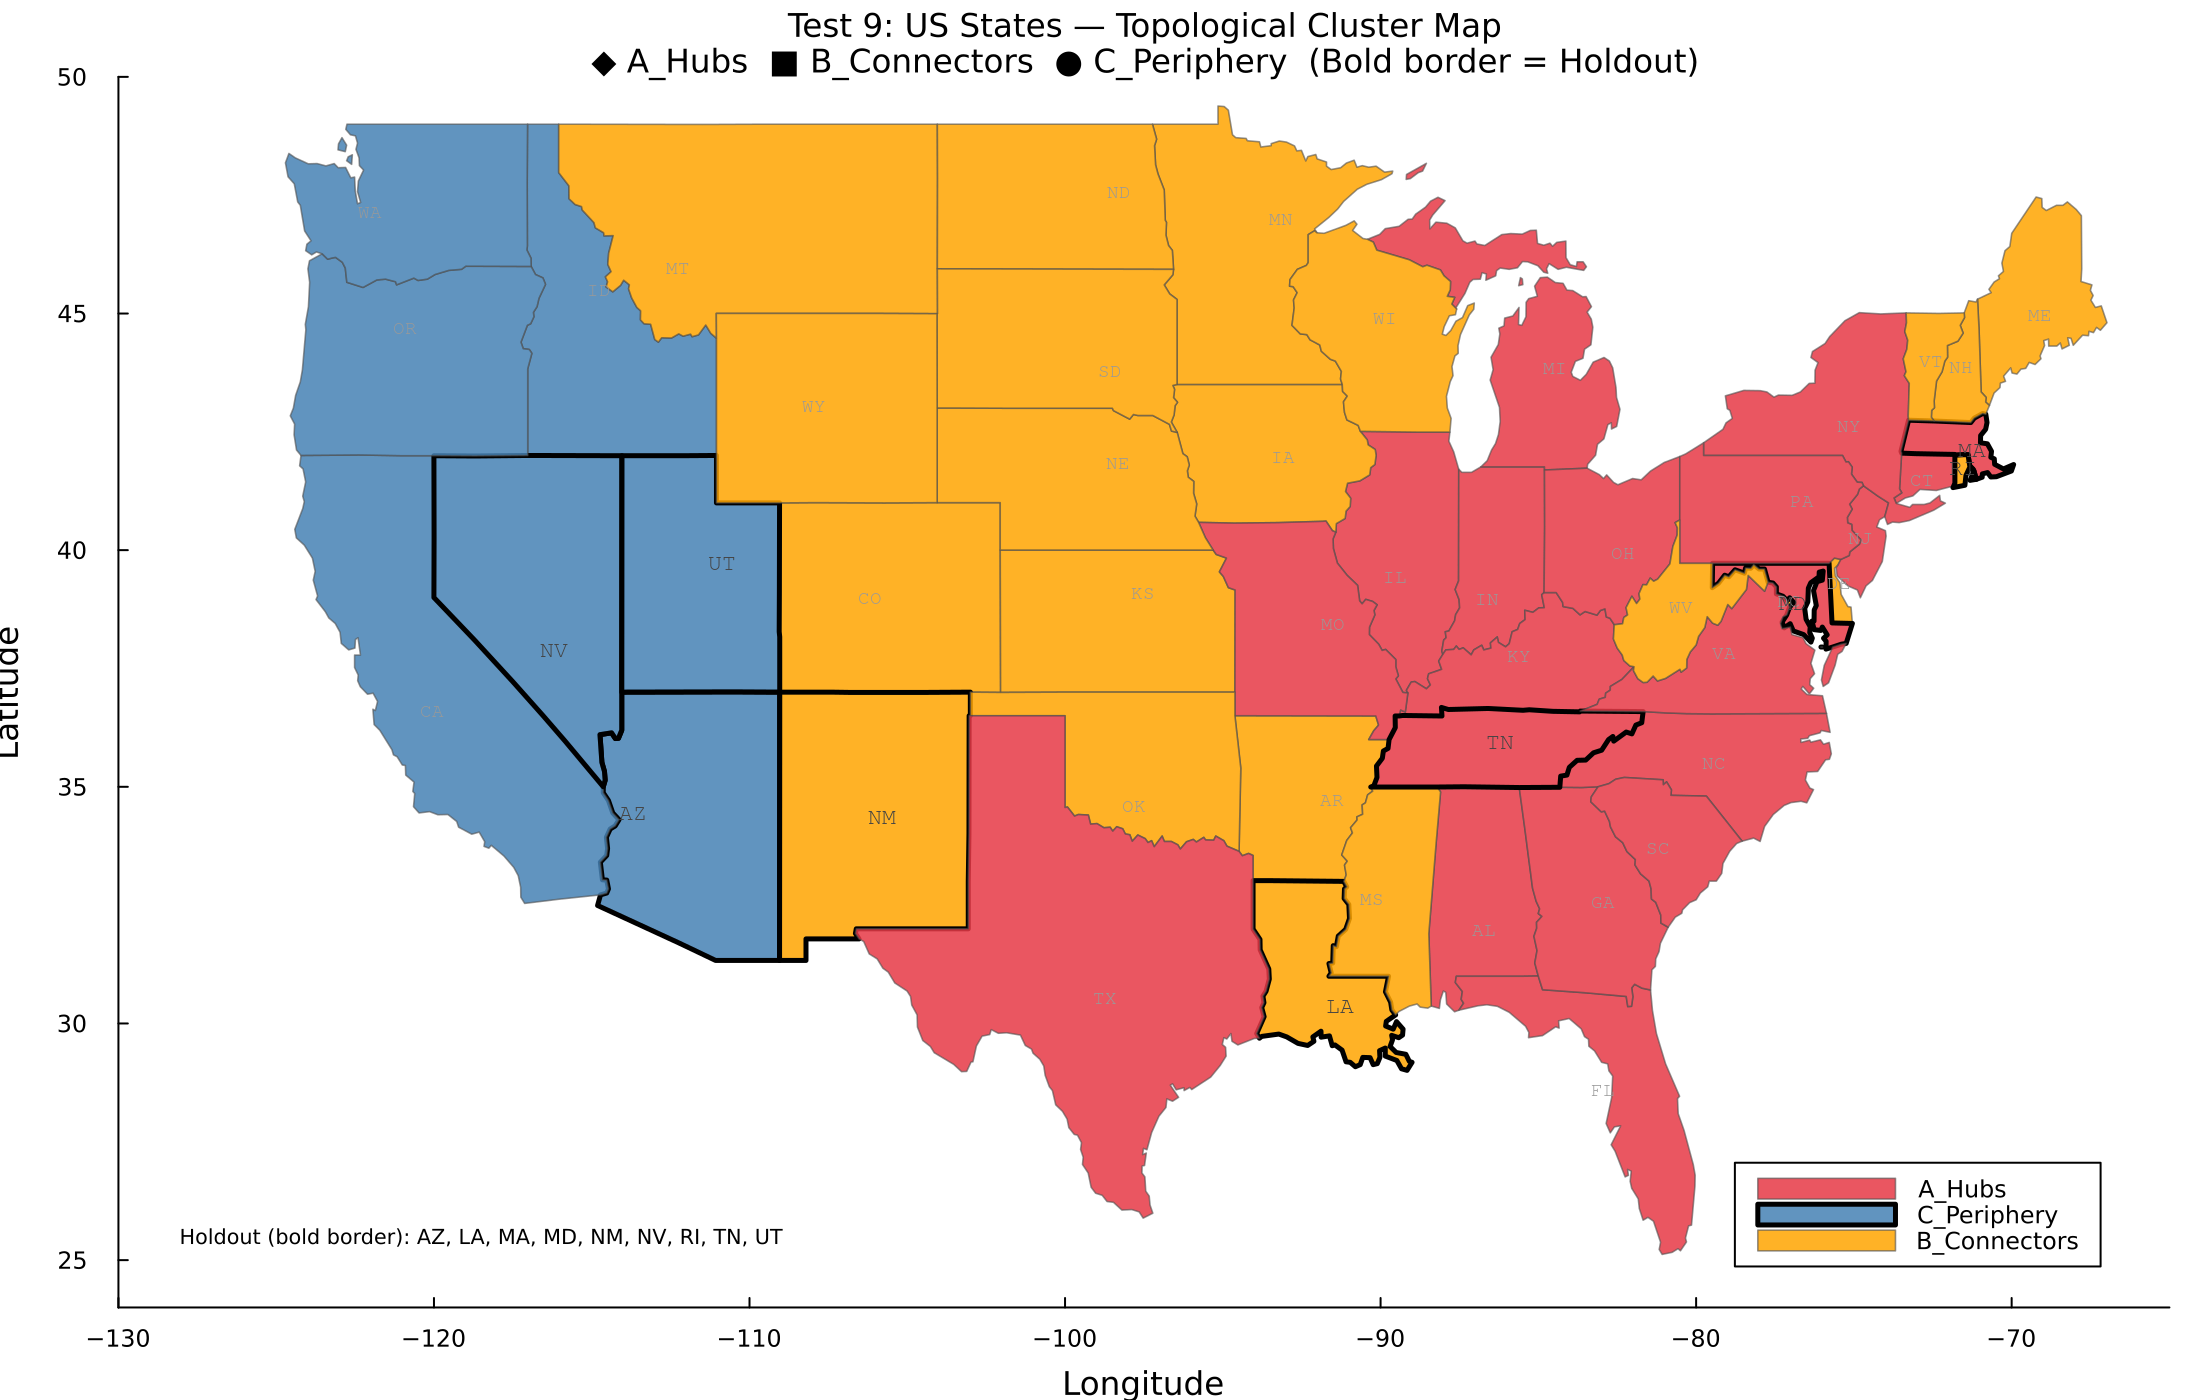
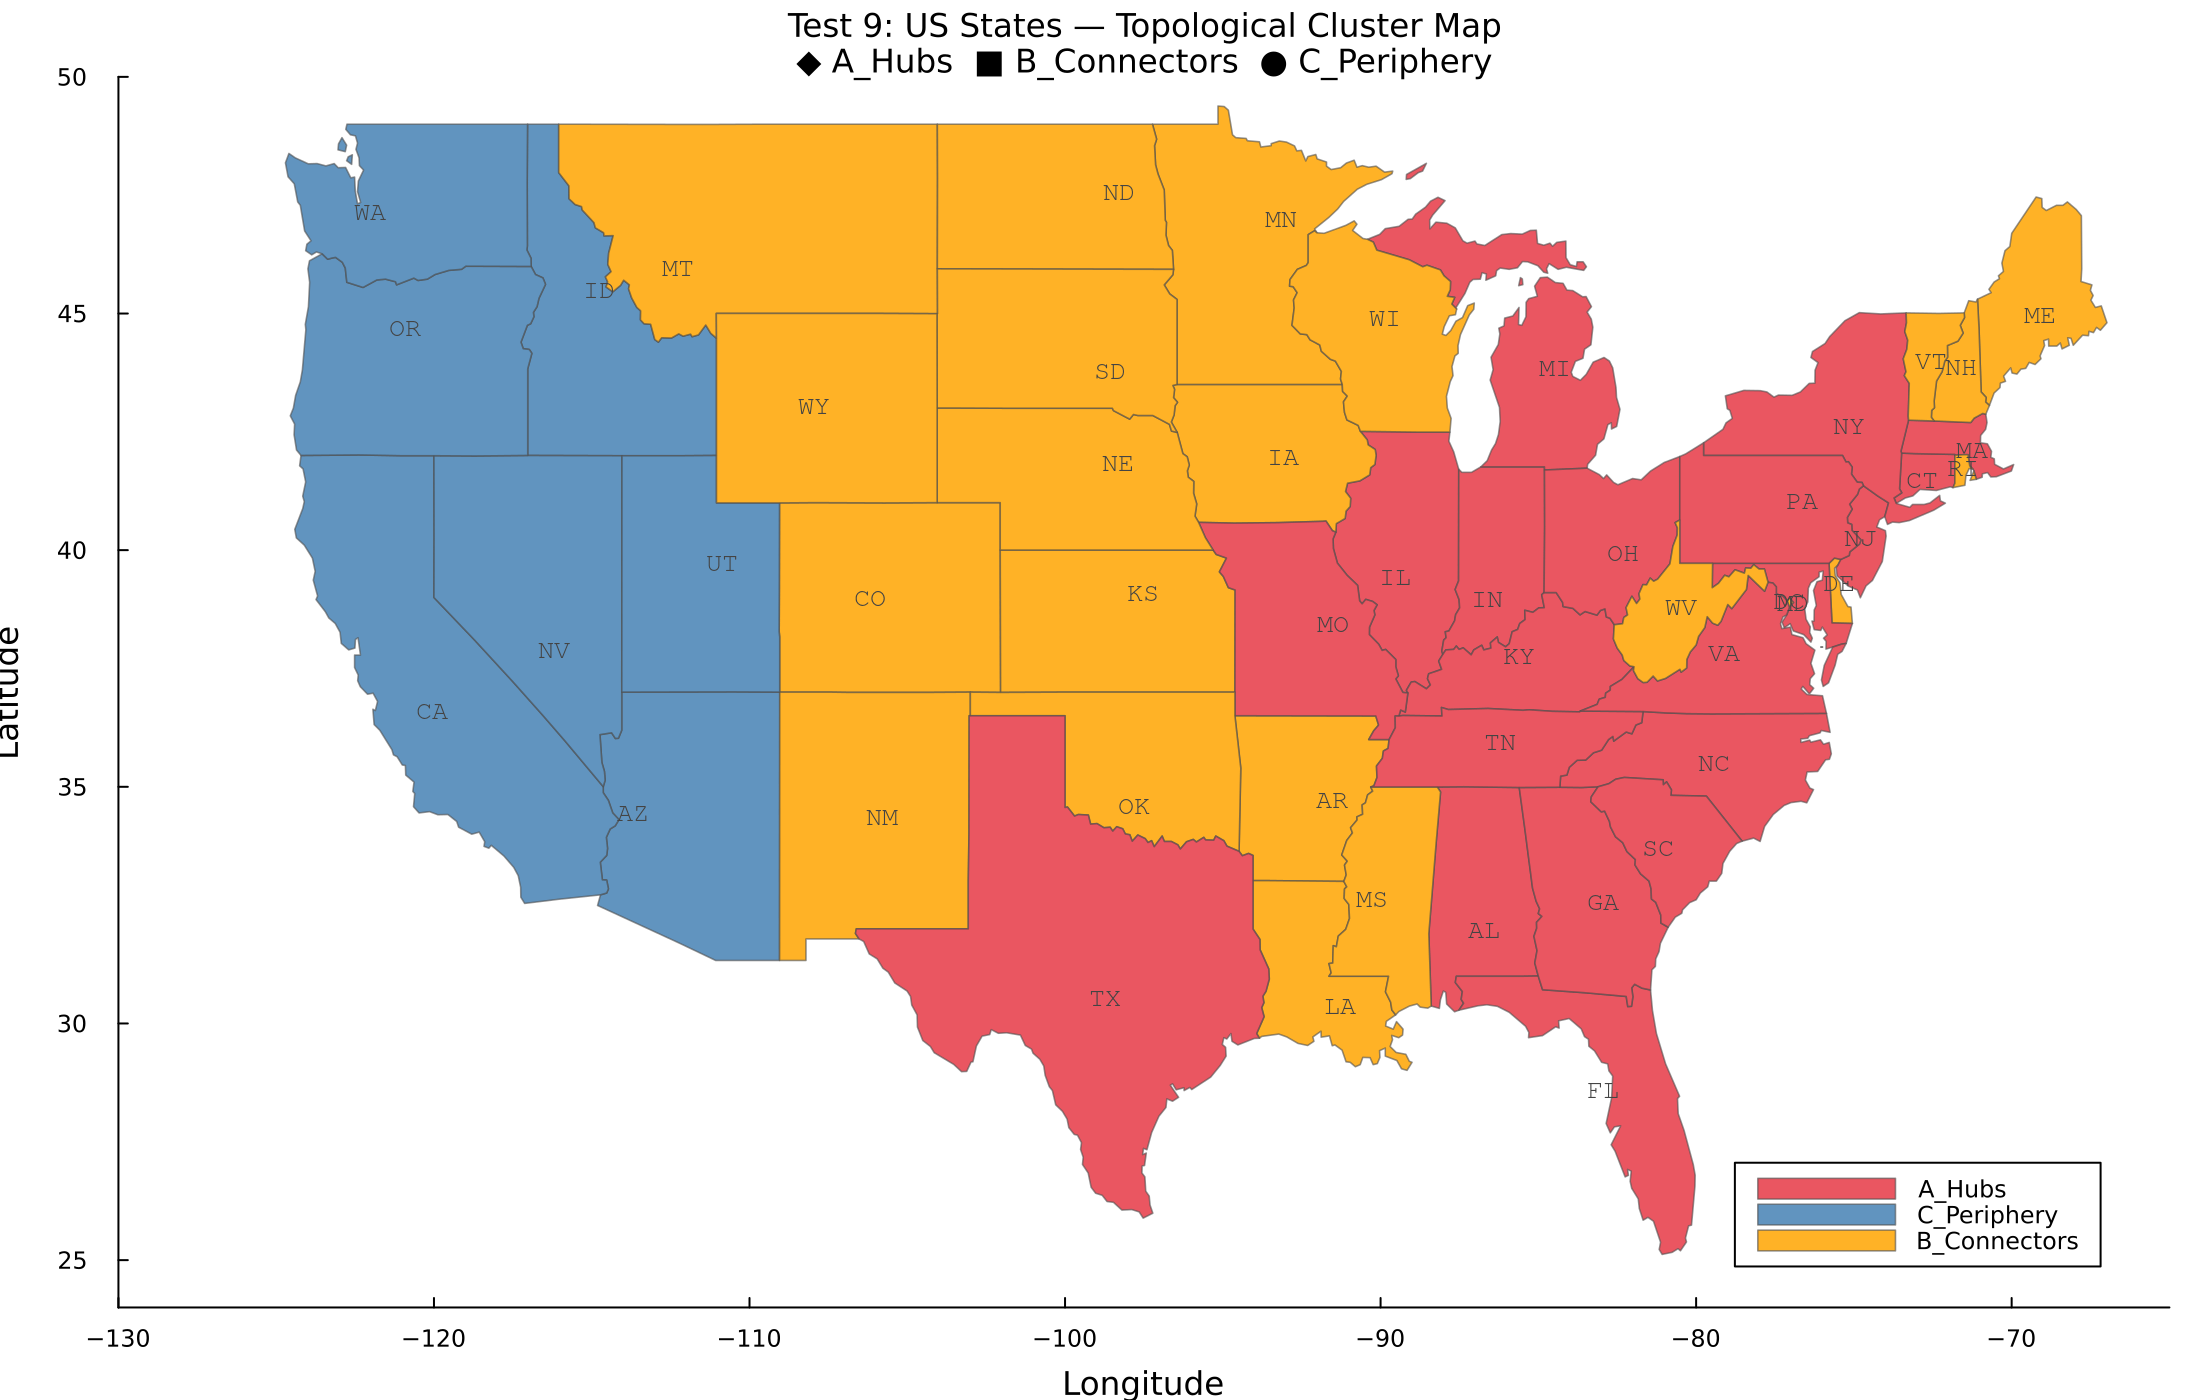
feat(test-9): enrich network science analysis
- Add parallel coordinates plot for cluster interpretation
- Deepen README.md analysis with academic metric definitions
- Update map script (remove holdout bold borders, add labels)
- Update docs (Experiments_Summary, README2) with Test 9 details
- Verify metric correctness via audit script

diff --git a/resultados/test-9/README.md b/resultados/test-9/README.md
@@ -12,15 +12,33 @@ Can we systematically select a subset of 9 US states for holdout validation that
 - **Key finding:** The graph is **fully connected** (1176 edges = 49×48/2) — every pair of states has nonzero weight
 
 ### Phase 2: Topological Feature Extraction (5D Vector per State)
-For each node, compute:
 
-| Metric | Rationale |
-|---|---|
-| **Weighted Degree** | Total gravity flow — identifies "Super-Spreaders" |
-| **Betweenness Centrality** | Flow control — identifies structural "Bridges" |
-| **Eigenvector Centrality** | Connection quality — linked to NY (high risk) vs linked to ND (low risk) |
-| **Clustering Coefficient** | Redundancy / "Safety Net" — can the model survive without this node? |
-| **Closeness Centrality** | How "nearby" a node is in weighted-path distance (replaced k-Core, which was constant=48 on the fully connected graph) |
+To characterize the structural role of each state in the US gravity network, we computed a 5-dimensional topological feature vector. These metrics were chosen to capture different aspects of centrality, connectivity, and redundancy.
+
+1.  **Weighted Degree (Strength)**
+    *   **Definition:** The sum of all edge weights connected to a node $i$: $s_i = \sum_{j} w_{ij}$.
+    *   **Interpretation:** In our gravity model, this represents the total volume of potential interaction (population flow) a state has with the rest of the country.
+    *   **Significance:** States with high weighted degree are **"Super-Spreaders"** or **"Hubs"**. They have the highest potential for importing and exporting infection due to massive aggregate connectivity.
+
+2.  **Weighted Betweenness Centrality**
+    *   **Definition:** The fraction of all shortest paths in the network that pass through node $i$. For weighted graphs, "shortest" means "minimum cost," where cost is the inverse of weight ($1/w_{ij}$).
+    *   **Interpretation:** Identifies states that act as **bridges** or **gatekeepers** between different regions of the graph.
+    *   **Significance:** A state with high betweenness but lower degree might connect distinct clusters (e.g., a state linking the Midwest to the West). Removing such nodes can disproportionately fragment the network.
+
+3.  **Eigenvector Centrality**
+    *   **Definition:** A measure where a node's centrality depends on the centrality of its neighbors. $x_i = \frac{1}{\lambda} \sum_{j} w_{ij} x_j$.
+    *   **Interpretation:** It is not just about *how many* connections you have, but *who* you are connected to.
+    *   **Significance:** A state connected to other highly active states (e.g., New Jersey connected to New York and Pennsylvania) will have high eigenvector centrality. This indicates deep integration into the "core" of the network's infection dynamics.
+
+4.  **Weighted Clustering Coefficient**
+    *   **Definition:** A measure of the degree to which nodes in a graph tend to cluster together. For a node $i$, it quantifies the intensity of triangles formed by its neighbors.
+    *   **Interpretation:** Indicates **local redundancy**. If state A is connected to B and C, are B and C also strongly connected?
+    *   **Significance:** High clustering implies a tightly knit community (e.g., New England states). If a node with high clustering is removed, its neighbors likely still have paths to each other. Low clustering implies a "star-like" or "bridge-like" local structure where the node is essential for local connectivity.
+
+5.  **Weighted Closeness Centrality**
+    *   **Definition:** The reciprocal of the sum of the shortest path distances from node $i$ to all other nodes.
+    *   **Interpretation:** How "close" a state is to everyone else in the network in terms of effective distance (inverse weight).
+    *   **Significance:** Represents **global accessibility**. A state with high closeness can spread infection to the entire network faster than a peripheral state, even if it doesn't have the highest immediate degree.
 
 ### Phase 3: Embedding & Clustering
 1. **StandardScaler** (Z-score) normalization
@@ -54,13 +72,42 @@ For each node, compute:
 | Clustering | 0.228 (CA) | 0.918 (ND) | Inversely correlated with degree |
 | Closeness | 148K (MT) | 652K (IL) | Geographic centrality |
 
-### Cluster Composition
+### Cluster Characterization & Parallel Coordinates
 
-| Cluster | N | Profile | Members |
-|---|---|---|---|
-| **A_Hubs** | 20 | High degree, high eigenvector, low clustering | FL, IL, MD, NC, CT, NJ, PA, GA, AL, OH, TX, SC, TN, KY, NY, MI, MO, IN, MA, VA |
-| **B_Connectors** | 22 | Moderate degree, high clustering | WV, MN, RI, NH, VT, DE, NM, WI, NE, LA, CO, OK, WY, ND, ME, AR, MS, MT, KS, SD, DC, IA |
-| **C_Periphery** | 7 | Low degree, low clustering, high betweenness (bridge role) | ID, CA, OR, WA, UT, NV, AZ |
+To understand the distinct topological roles of the identified clusters, we visualized their feature profiles using a Parallel Coordinates Plot (Min-Max scaled).
+
+![Parallel Coordinates Plot](parallel_coordinates.png)
+
+**How to Interpret This Plot:**
+Each line represents a single US state, colored by its cluster assignment. The vertical axes correspond to the five topological metrics, each normalized to the range [0, 1] (Min-Max scaling) to allow direct comparison of feature profiles. This visualization reveals the "signature" of each cluster:
+*   **Hubs (Red)** dominate the upper ranges of Degree, Betweenness, and Eigenvector centrality.
+*   **Connectors (Orange)** are distinguished almost exclusively by high Clustering Coefficients, indicating redundant local connectivity.
+*   **Periphery (Blue)** states exhibit structurally "quiet" profiles with low values on most dimensions.
+
+**Analysis of Cluster Profiles:**
+
+1.  **Cluster A (Hubs) — *The Core***
+    *   **Profile:** High **Degree**, High **Eigenvector**, High **Closeness**, Low-to-Mid **Clustering**.
+    *   **Role:** These are the dominant states in the US gravity network (e.g., NY, CA, TX, FL, IL). They form the "rich club" core.
+    *   **Dynamics:** They are the primary drivers of diffusion. Infection reaching a Hub has immediate access to the entire network (high Closeness) and reinforces other Hubs (high Eigenvector).
+
+2.  **Cluster B (Connectors) — *The Fabric***
+    *   **Profile:** Moderate **Degree**, High **Clustering**, Moderate **Closeness**.
+    *   **Role:** These states (e.g., MN, WI, CO, MO) often form tightly knit regional communities. The high clustering coefficient indicates that their neighbors are also connected to each other, providing **redundancy**.
+    *   **Dynamics:** They act as the stable "fabric" of the network. While not super-spreaders, they facilitate robust local circulation.
+
+3.  **Cluster C (Periphery) — *The Outliers***
+    *   **Profile:** Low **Degree**, Low **Clustering**, Low **Eigenvector**.
+    *   **Role:** geographically or topologically isolated states (e.g., MT, ID, ME).
+    *   **Dynamics:** They interact with the network primarily through specific "gateway" connections rather than broad integration. They are the last to be affected by global diffusion trends.
+
+### Cluster Membership Table
+
+| Cluster | N | Members |
+|---|---|---|
+| **A_Hubs** | 20 | FL, IL, MD, NC, CT, NJ, PA, GA, AL, OH, TX, SC, TN, KY, NY, MI, MO, IN, MA, VA |
+| **B_Connectors** | 22 | WV, MN, RI, NH, VT, DE, NM, WI, NE, LA, CO, OK, WY, ND, ME, AR, MS, MT, KS, SD, DC, IA |
+| **C_Periphery** | 7 | ID, CA, OR, WA, UT, NV, AZ |
 
 ### PCA Visualization
 

diff --git a/docs/Experiments_Summary.md b/docs/Experiments_Summary.md
@@ -164,17 +164,37 @@ This document summarizes the three main experimental phases conducted in this pr
 ## 🎯 Phase 9: Test 9 - Graph Characterization & Optimal Holdout
 **Goal:** Mathematically characterize the gravity graph and select a topologically representative holdout set to ensure robust validation.
 
-*   **Methodology: Multi-Metric Clustering**
-    *   **Features:** Weighted Degree, Betweenness, Eigenvector Centrality, Clustering, and Closeness Centrality.
-    *   **Embedding:** PCA (Linear) and UMAP (Nonlinear) parameter sweeps.
-    *   **Clustering:** KMeans (k=3) identifying Hubs, Connectors, and Periphery.
+*   **Methodology: Multi-Metric Topological Profiling**
+    For each of the 49 US states we computed a 5-dimensional topological feature vector on the gravity network:
+    1.  **Weighted Degree (Strength):** Total gravity flow $s_i = \sum_j w_{ij}$ — identifies "Super-Spreaders" with highest potential for infection import/export.
+    2.  **Weighted Betweenness Centrality:** Fraction of shortest paths (cost = $1/w_{ij}$) passing through a node — identifies structural "Bridges" connecting distant regions.
+    3.  **Eigenvector Centrality:** Recursive importance based on neighbor importance — captures integration into the network's "rich club" core.
+    4.  **Weighted Clustering Coefficient (Barrat et al.):** Triangle intensity among neighbors — quantifies local redundancy and community cohesion.
+    5.  **Weighted Closeness Centrality:** Reciprocal of total shortest-path distance — measures global accessibility for epidemic diffusion.
+    *   **Embedding:** PCA (Linear, 79.1% variance in 2D) and UMAP (Nonlinear) parameter sweeps.
+    *   **Clustering:** KMeans (k=3) identifying three structural roles:
+
+*   **Cluster Characterization:**
+
+    | Cluster | N | Profile | Role |
+    |---|---|---|---|
+    | **A_Hubs** | 20 | High degree, eigenvector, closeness; low clustering | The "Core" — primary diffusion drivers (NY, PA, IL, FL, TX) |
+    | **B_Connectors** | 22 | Moderate degree; high clustering | The "Fabric" — tightly knit regional communities providing redundancy |
+    | **C_Periphery** | 7 | Low degree, clustering, eigenvector | The "Outliers" — geographically isolated states (CA, OR, WA, ID, MT) |
+
 *   **Outcome: Strategic Holdout Selection.**
     *   **Representative Set:** Selected 9 states (`AZ, LA, MA, MD, NM, NV, RI, TN, UT`) by sampling 3 from each topological cluster.
-    *   **Constraints:** Satisfied geographic diversity (Census Regions) and structural integrity (Fiedler value check).
+    *   **Constraints:** Satisfied geographic diversity (Census Regions) and structural integrity (Fiedler value = 767,735).
     *   **Integrity:** Verified that removing holdout nodes does not fracture the training graph connectivity.
+
+*   **Code Audit (Verified):**
+    *   All 5 metric implementations numerically verified against independent recomputation.
+    *   Betweenness centrality confirmed to use weighted Dijkstra (via `SimpleWeightedGraphs` `weights()` dispatch).
+    *   Z-score normalization verified (column means ≈ 0, stds ≈ 1).
+
 *   **Key Visuals:**
-    *   🖼 **Topological MAP:** `Resultados/test-9/pca_clusters.png` (Linear structure).
+    *   🖼 **Topological PCA:** `Resultados/test-9/pca_clusters.png` (Linear structure).
     *   🌀 **Nonlinear Manifold:** `Resultados/test-9/umap_sweep.png` (Clustering stability).
     *   🗺 **Geographic Cluster Map:** `Resultados/test-9/cluster_map_us.png` (US states colored by cluster).
+    *   📊 **Parallel Coordinates:** `Resultados/test-9/parallel_coordinates.png` (Cluster signatures across all 5 metrics).
     *   📜 **Selection Logic:** `Resultados/test-9/holdout_selection.json`.
-

diff --git a/docs/README2.md b/docs/README2.md
@@ -148,15 +148,25 @@ This section details the large-scale experiment (25 Training States) designed to
 ## 8. Graph Characterization (Test 9)
 
 ### `Resultados/test-9/graph_characterization.jl`
-- **Purpose**: Topological profiling of the US states network.
-- **Metrics**: Implementations for Weighted Degree, Betweenness, Eigenvector, Clustering, and Closeness Centrality.
-- **Holdout Logic**: Implements a constrained stratified sampling algorithm with an auto-repair loop based on Fiedler values.
+- **Purpose**: Topological profiling of the US states gravity network.
+- **Metrics (5D Feature Vector per State)**:
+    1.  **Weighted Degree** — Total gravity flow ($s_i = \sum_j w_{ij}$). Identifies super-spreader states.
+    2.  **Weighted Betweenness** — Fraction of shortest paths (cost = $1/w_{ij}$) through a node. Uses `Graphs.jl` Dijkstra via `SimpleWeightedGraphs` `weights()` dispatch.
+    3.  **Eigenvector Centrality** — Power-iteration on weighted adjacency. Captures "rich club" integration.
+    4.  **Weighted Clustering** — Barrat et al. (2004) formula with weights normalized to [0, 1]. Measures local triangle intensity.
+    5.  **Weighted Closeness** — Floyd-Warshall shortest paths with inverse-weight distances. Measures global accessibility.
+- **Embedding**: PCA (SVD-based, 79.1% variance in 2D) + KMeans (k=3, 20 restarts).
+- **Holdout Logic**: Constrained stratified sampling (3 per cluster) with geographic diversity constraint and auto-repair loop based on Fiedler values (algebraic connectivity).
 
 ### `Resultados/test-9/umap_analysis.jl`
 - **Purpose**: Exploratory nonlinear manifold analysis.
 - **Mechanism**: Sweeps through `n_neighbors` and `min_dist` parameters in UMAP to verify cluster stability and visualize the 5D topological space in 2D.
+- **Consistency**: Uses the same Z-score normalization as `graph_characterization.jl`.
 
 ### `Resultados/test-9/plot_cluster_map.jl`
 - **Purpose**: Geographic visualization of the topological clusters.
-- **Mechanism**: Downloads a US states GeoJSON and colors each state by its cluster assignment (A_Hubs, B_Connectors, C_Periphery). Holdout states are marked with bold borders.
+- **Mechanism**: Downloads a US states GeoJSON and colors each state by its cluster assignment (A_Hubs, B_Connectors, C_Periphery) with state abbreviation labels.
 
+### `Resultados/test-9/plot_parallel_coordinates.jl`
+- **Purpose**: Cluster signature visualization.
+- **Mechanism**: Loads `metrics_table.csv`, applies Min-Max normalization per feature to [0, 1], and plots parallel coordinates colored by cluster. Reveals the distinct topological "fingerprint" of Hubs (high degree/eigenvector/closeness), Connectors (high clustering), and Periphery (low across all dimensions).
